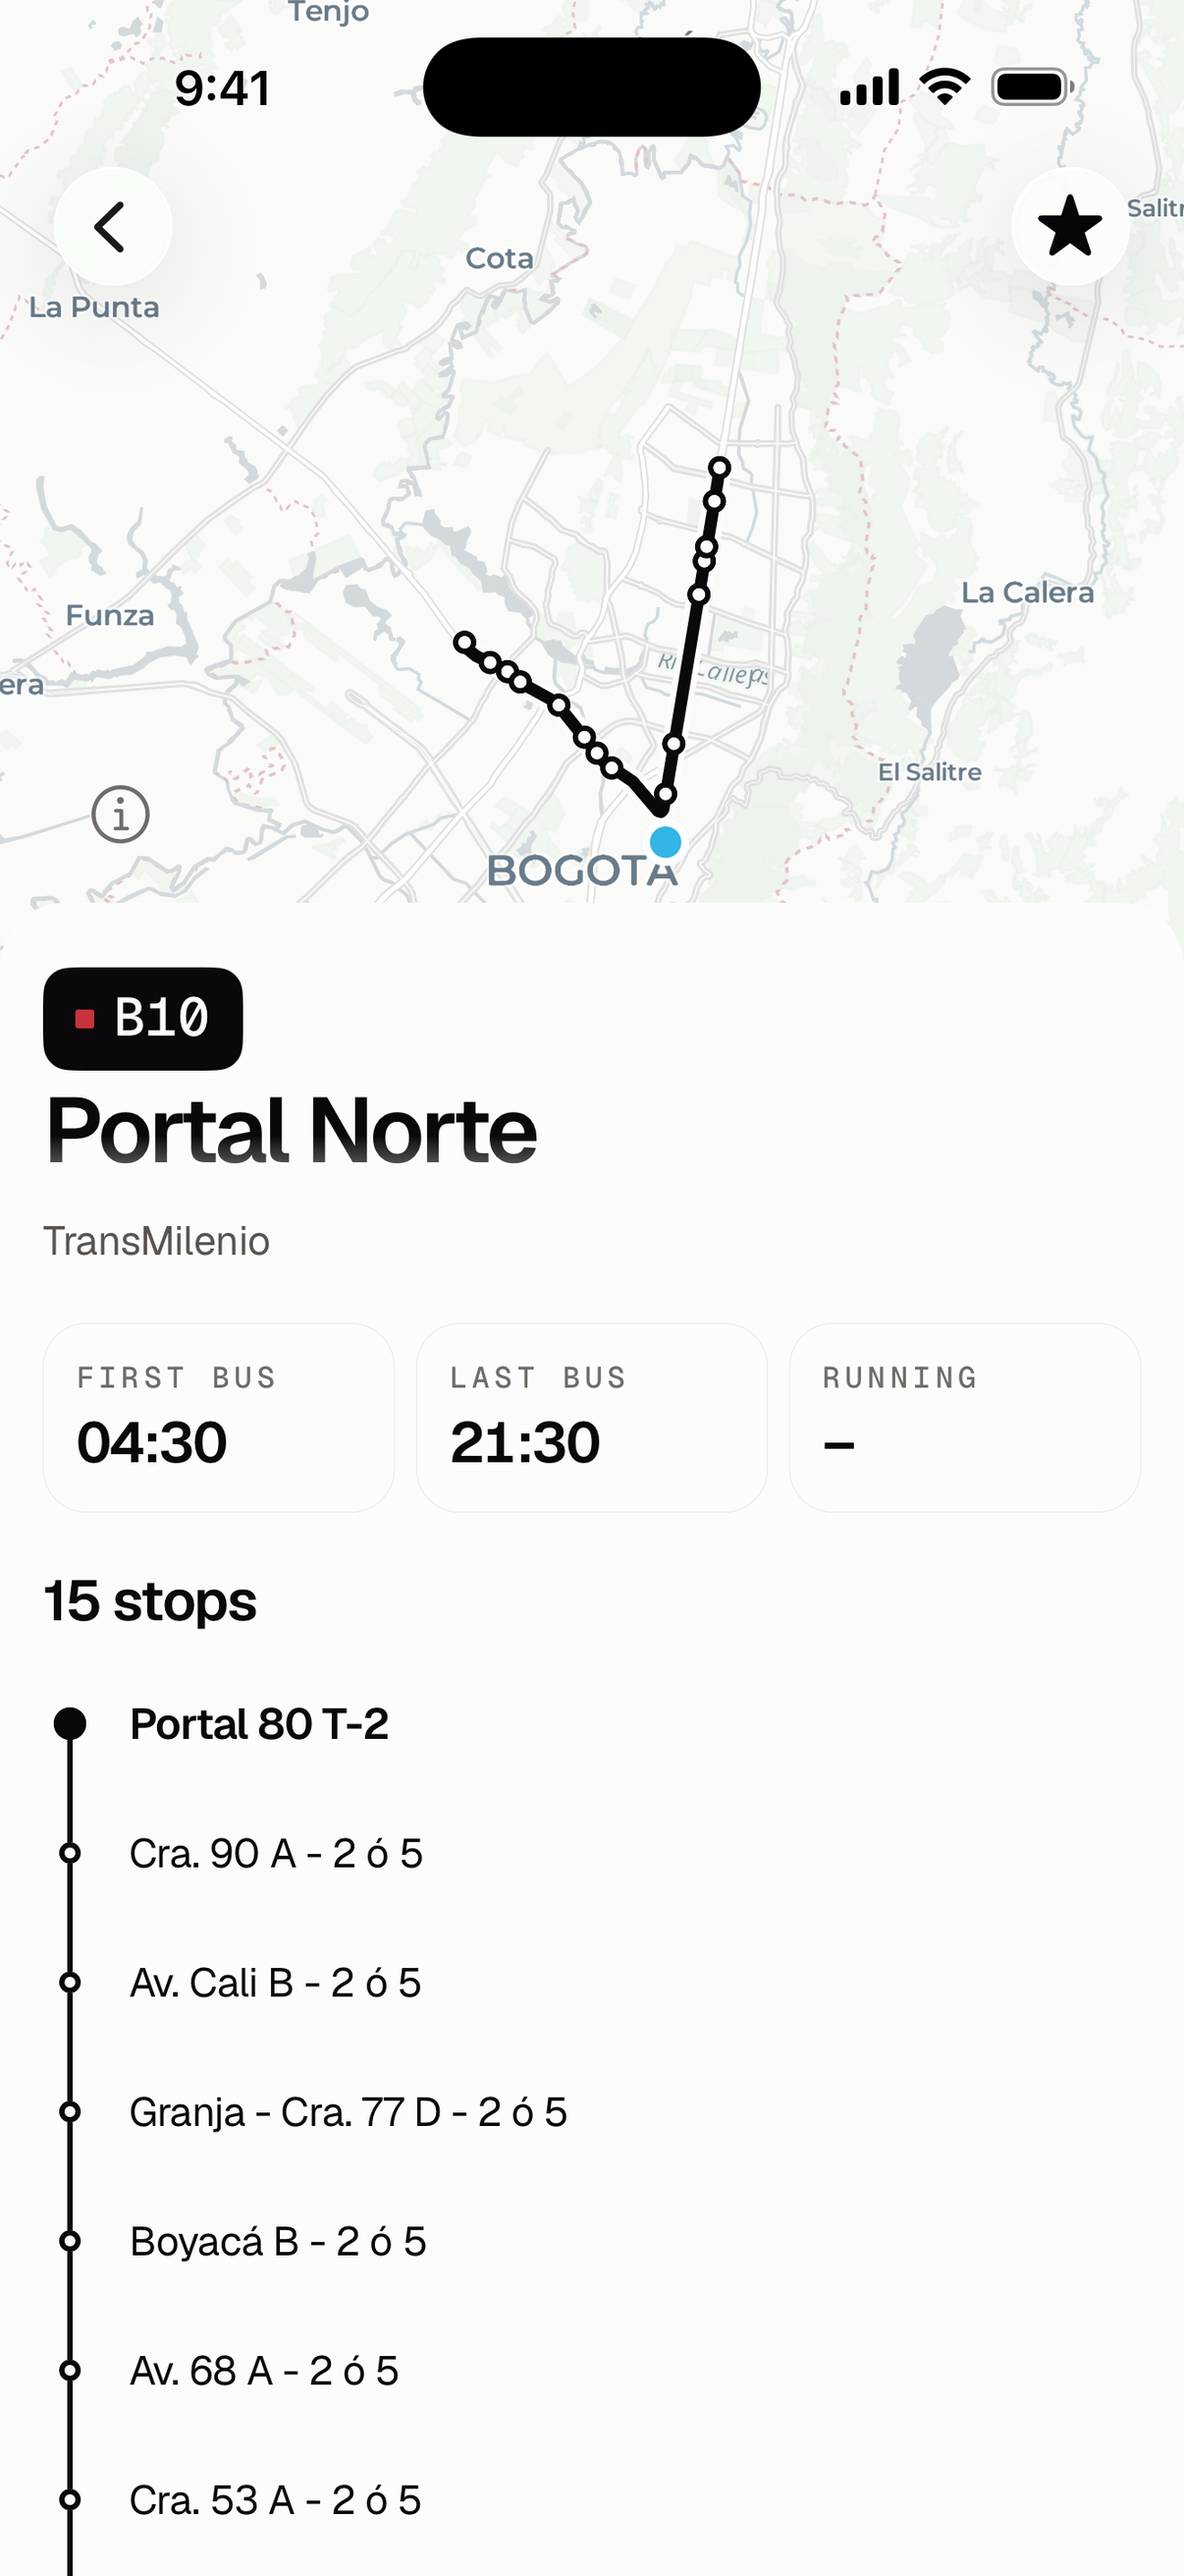
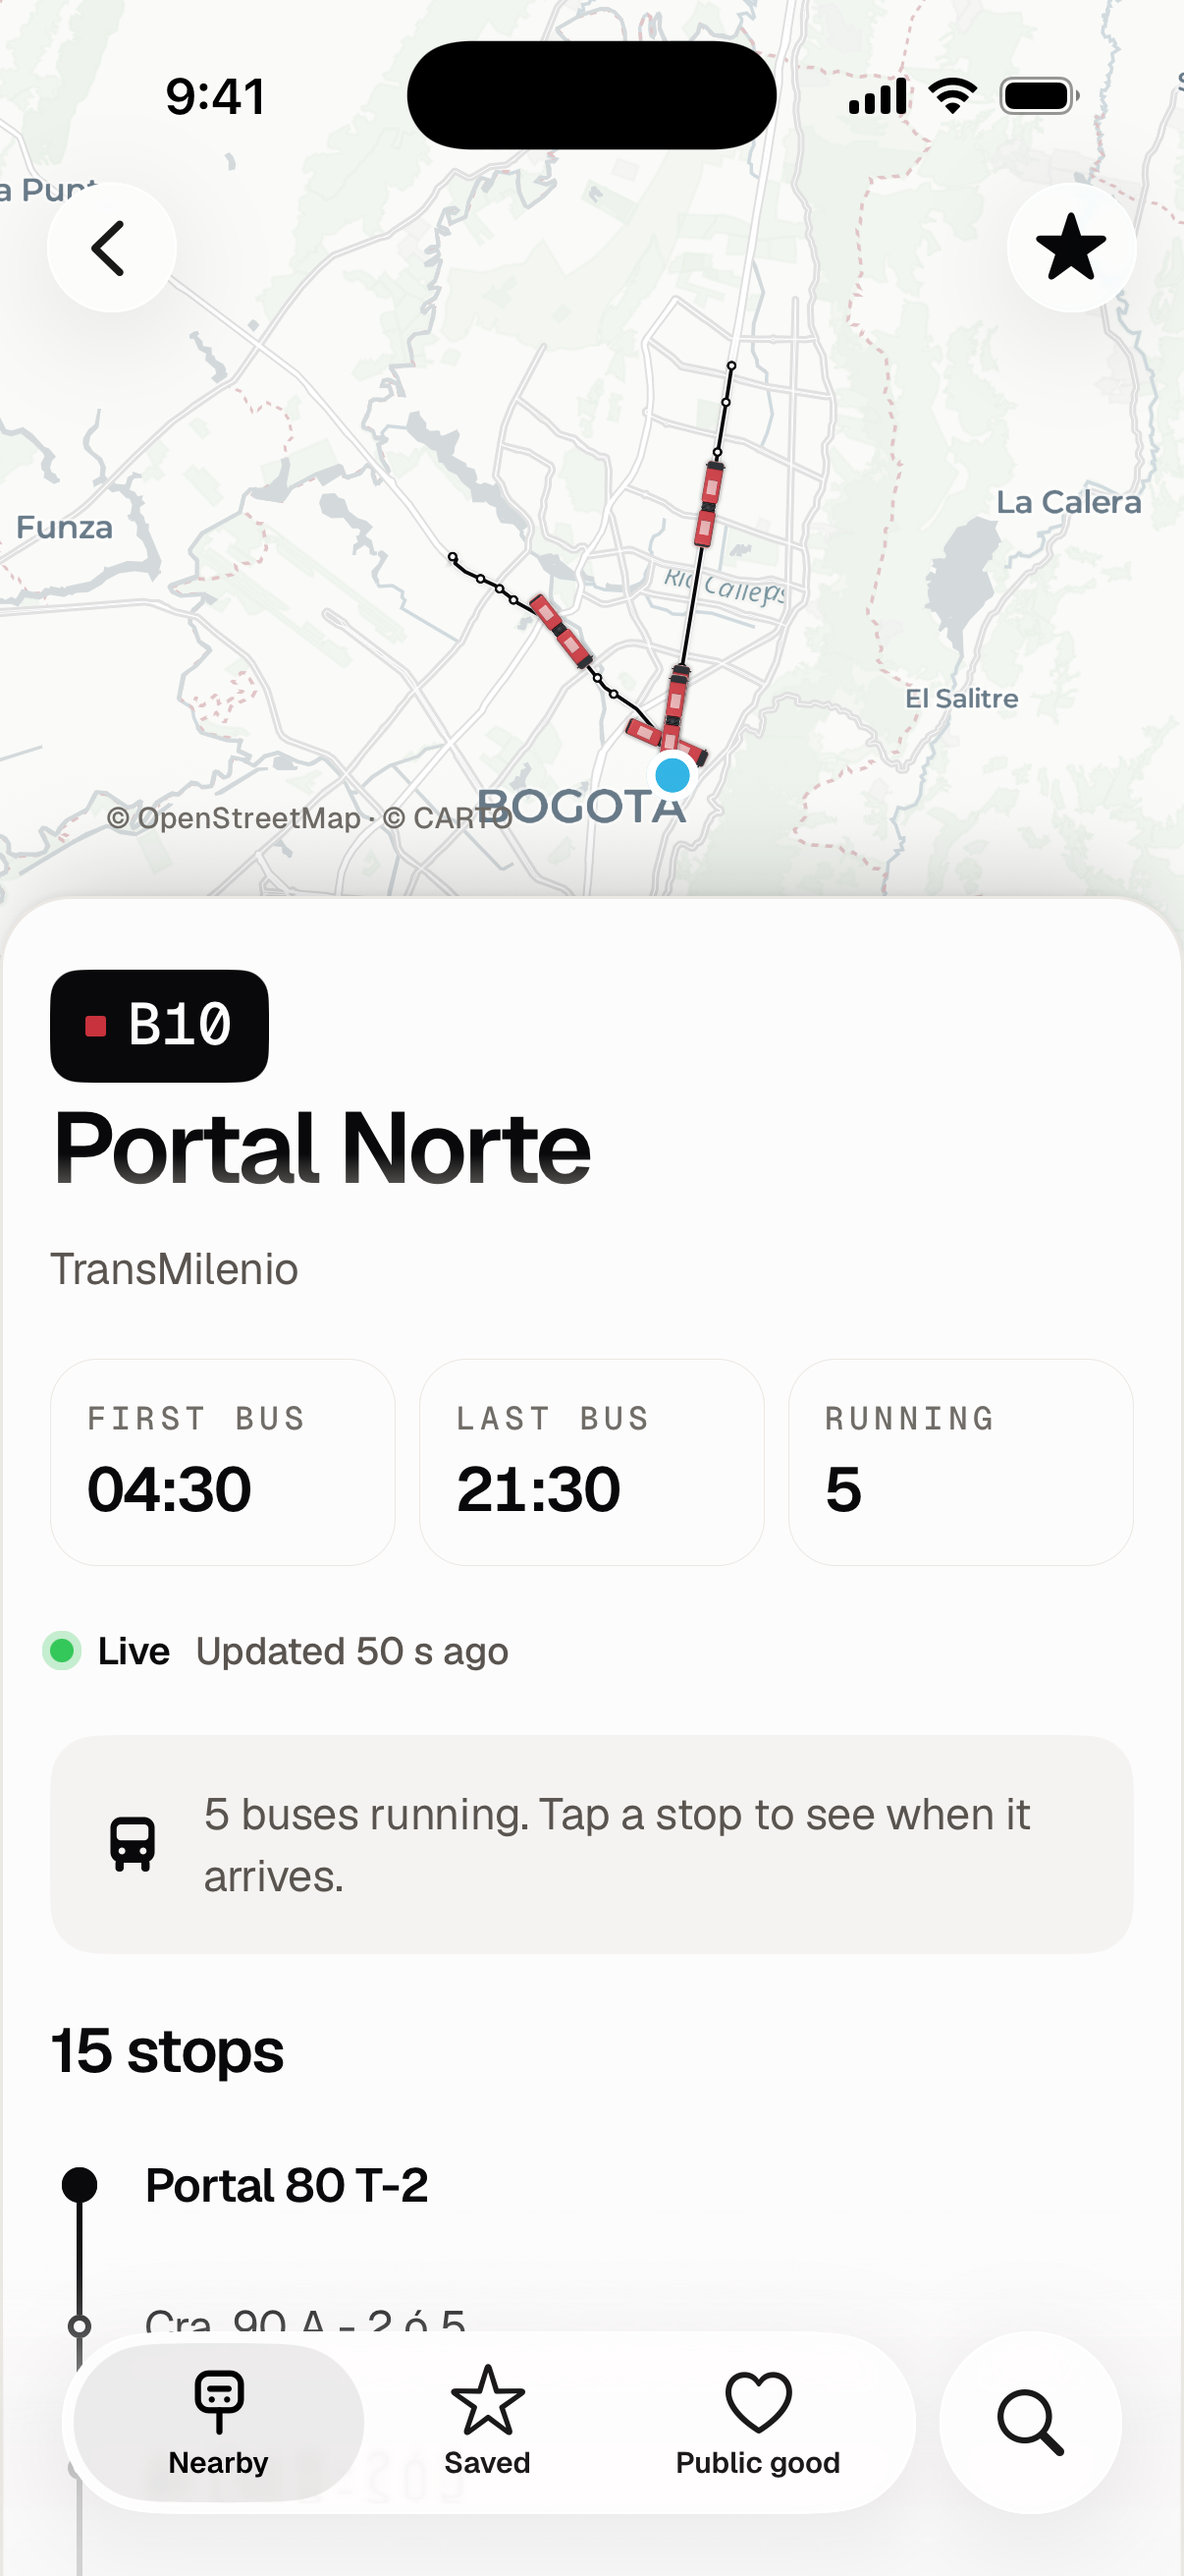
Show the buses in the store screenshots and the README

diff --git a/README.md b/README.md
@@ -4,7 +4,7 @@
 
 Un bien público digital de [Croma](https://usecroma.com) · Datos abiertos de TransMilenio · Licencia MIT · [Privacidad](https://transmi.usecroma.com/paradero/privacidad) · No es una app oficial del Distrito.
 
-![Paradero con la identidad de Croma: inicio y paraderos cercanos en modo claro, próximos buses de un paradero y recorrido de la ruta B10 en modo oscuro](.github/assets/hero.jpg)
+![Paradero en cuatro pantallas: la bienvenida, los paraderos cercanos en el mapa, un paradero con su bus articulado acercándose en vivo y la ruta B10 con sus buses en camino](.github/assets/hero.jpg)
 
 ## Un bien común, para el Estado y para la gente
 
